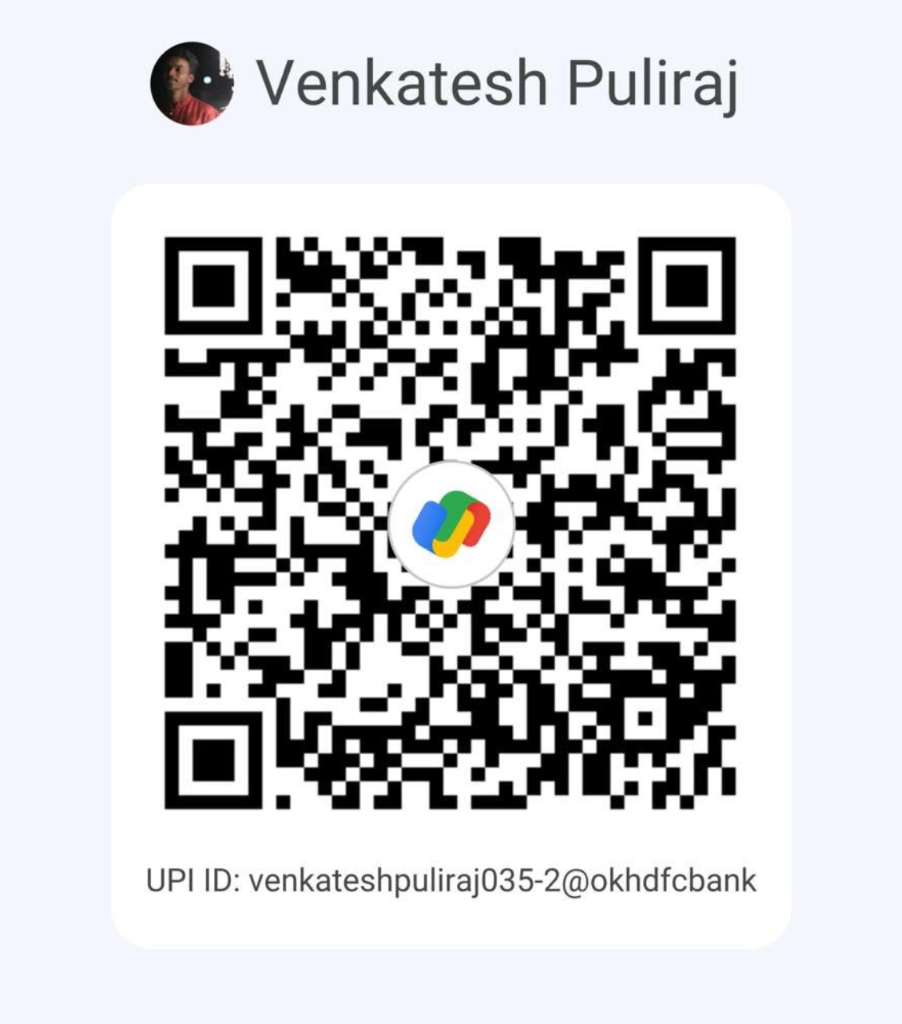
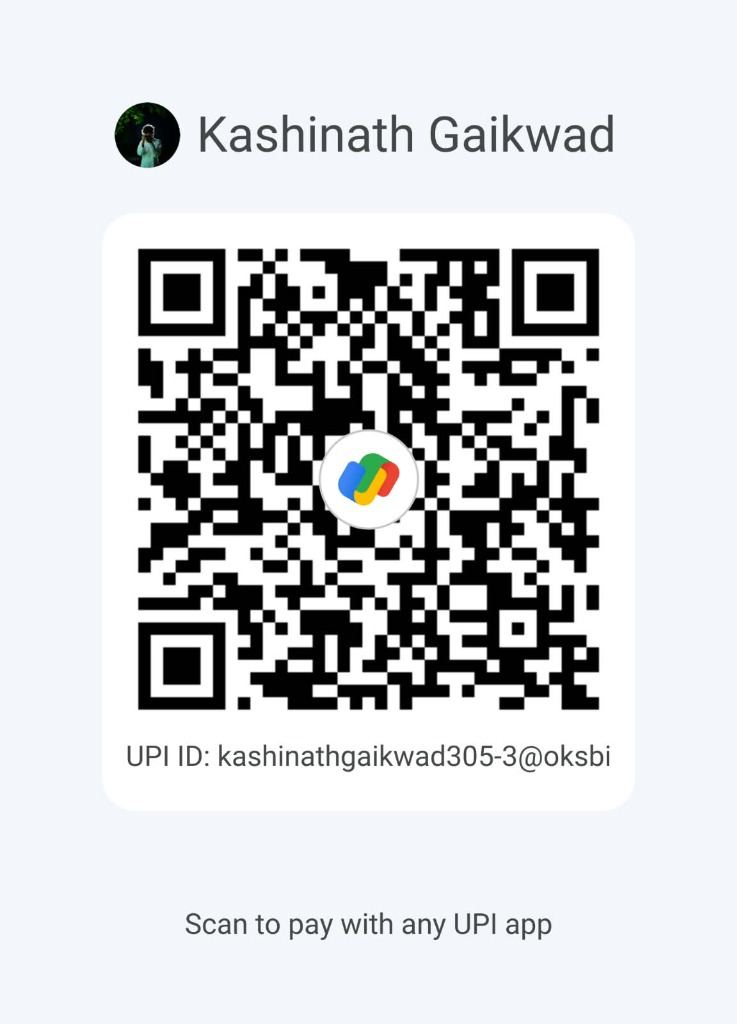
Update registration QR code and UPI details to Kashinath Gaikwad

Changed region(s): [[0.156, 0.2188, 0.8426, 0.8125], [0.156, 0.0312, 0.8426, 0.1875], [0.156, 0.8438, 0.8426, 0.9375]]

diff --git a/src/app/register/_components/register-form.tsx b/src/app/register/_components/register-form.tsx
@@ -188,7 +188,7 @@ export function RegisterForm() {
   }
 
   const handleCopyUpi = () => {
-    navigator.clipboard.writeText("venkateshpuliraj035-2@okhdfcbank")
+    navigator.clipboard.writeText("kashinathgaikwad305-3@oksbi")
     setCopiedUpi(true)
     toast.success("UPI ID copied to clipboard!")
     setTimeout(() => setCopiedUpi(false), 2000)
@@ -735,7 +735,7 @@ export function RegisterForm() {
                 <div className="w-48 sm:w-52 bg-white p-2.5 rounded-2xl flex flex-col items-center justify-center shrink-0 shadow-2xl border-2 border-white/20">
                   <img
                     src="/payment-qr.png"
-                    alt="Payment QR Code - Venkatesh Puliraj"
+                    alt="Payment QR Code - Kashinath Gaikwad"
                     className="w-full h-auto object-contain rounded-xl"
                   />
                   <span className="text-[9px] font-bold tracking-tight text-zinc-800 mt-1 uppercase font-mono">
@@ -747,7 +747,7 @@ export function RegisterForm() {
                   <div>
                     <span className="text-xs text-zinc-400 block mb-1">UPI Recipient Name:</span>
                     <span className="text-sm font-bold text-white flex items-center gap-1.5 justify-center sm:justify-start">
-                      <Sparkles className="w-3.5 h-3.5 text-[#ffb800]" /> Venkatesh Puliraj
+                      <Sparkles className="w-3.5 h-3.5 text-[#ffb800]" /> Kashinath Gaikwad
                     </span>
                   </div>
 
@@ -755,7 +755,7 @@ export function RegisterForm() {
                     <span className="text-xs text-zinc-400 block mb-1">Official UPI ID (GPay / PhonePe / Paytm):</span>
                     <div className="flex flex-wrap items-center gap-2 justify-center sm:justify-start">
                       <code className="text-xs sm:text-sm font-mono font-bold text-[#ffb800] bg-black/60 px-3 py-1.5 rounded-lg border border-white/10 break-all select-all">
-                        venkateshpuliraj035-2@okhdfcbank
+                        kashinathgaikwad305-3@oksbi
                       </code>
                       <Button
                         type="button"

diff --git a/src/app/api/seed/route.ts b/src/app/api/seed/route.ts
@@ -48,8 +48,8 @@ export async function GET(request: Request) {
         venue: "The Grand Palace Grounds",
         eventDescription: "GenZ Bling Navratri is bringing together music, Garba, Dandiya, DJs and a premium festive experience.",
         contactNumber: "9876543210",
-        upiId: "venkateshpuliraj035-2@okhdfcbank",
-        upiRecipient: "Venkatesh Puliraj",
+        upiId: "kashinathgaikwad305-3@oksbi",
+        upiRecipient: "Kashinath Gaikwad",
         qrCodeUrl: "/payment-qr.png",
       }
     })

diff --git a/README.md b/README.md
@@ -19,7 +19,7 @@
   - 👥 **Bling Squad (₹1,149):** Entry for 4 • Group fast-track lane.
   - 👨👩👧👦 **Bling Gang (₹2,799):** Entry for 10 • Lowest per-person rate (₹280/p).
 - **Official UPI Payment Integration:**
-  - Official Google Pay UPI QR code image with 1-click UPI ID copy (`venkateshpuliraj035-2@okhdfcbank`).
+  - Official Google Pay UPI QR code image with 1-click UPI ID copy (`kashinathgaikwad305-3@oksbi`).
   - Seamless screenshot upload & instant verification workflow.
 - **Attendee Mobile & Pass Number Login:**
   - Secure pass holder authentication using registered 10-digit mobile number and official GBN Pass Number (e.g. `GBN-0001`).
@@ -48,7 +48,7 @@ dandiya-match/
 ├── public/
 │   ├── logo.png               # Official GENZ BLING NAVRATRI artwork
 │   ├── genz-bling-logo.png    # High-res festival logo
-│   ├── payment-qr.png         # Official Google Pay UPI QR Code (Venkatesh Puliraj)
+│   ├── payment-qr.png         # Official Google Pay UPI QR Code (Kashinath Gaikwad)
 │   ├── partners/              # Official organizer & tech partner brand assets
 │   └── Sponsores/             # Festival sponsors brand assets
 ├── src/
